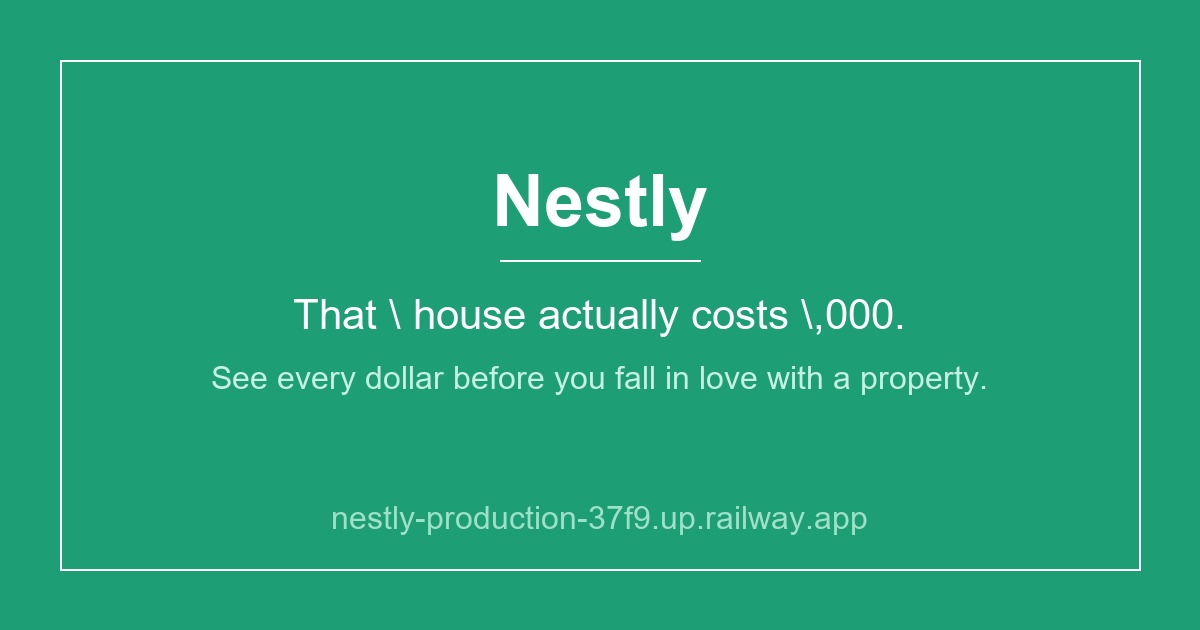
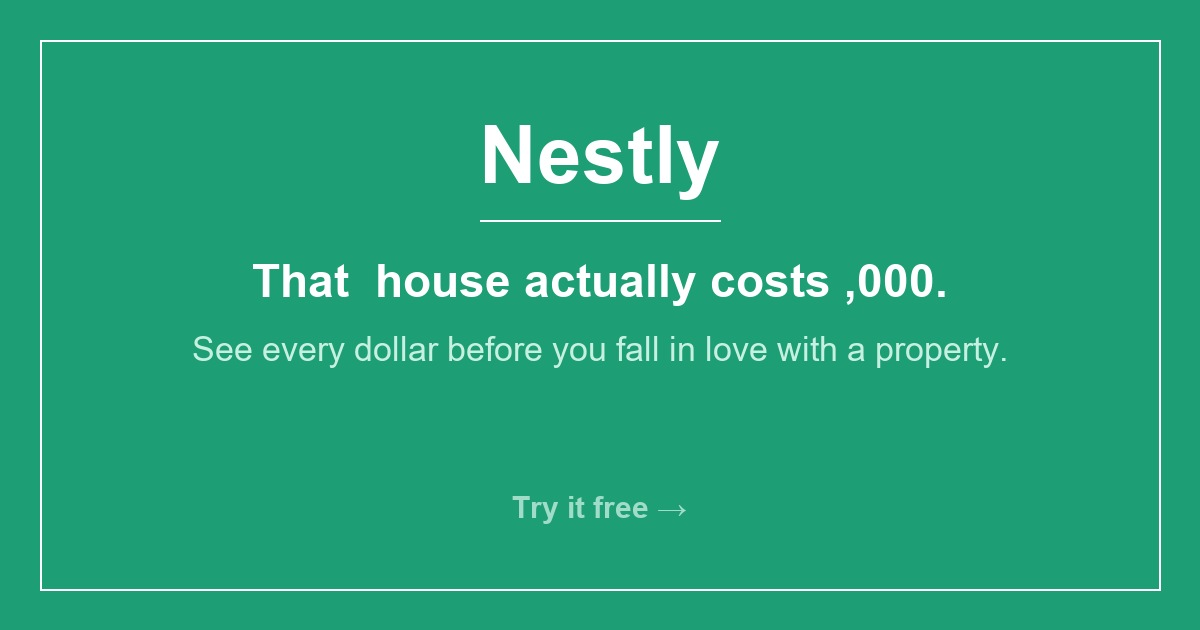
Fix og-image dollar signs and expand og:description
- Regenerate og-image.jpg: dollar signs now render correctly (was
  showing backslashes due to Python escape sequence bug)
- Add CTA 'Try it free' to og-image
- Expand og:description to include stamp duty, LMI, conveyancing
  and government grants copy for all 8 Australian states

Changed region(s): [[0.0308, 0.0603, 0.9867, 0.9651], [0.1542, 0.181, 0.8325, 0.6333], [0.2775, 0.7841, 0.74, 0.8444]]

diff --git a/index.html b/index.html
@@ -11,7 +11,7 @@
 
   <!-- Open Graph -->
   <meta property="og:title" content="Nestly — Know the True Cost Before You Fall in Love">
-  <meta property="og:description" content="That $650k house actually costs $712,000. See every dollar you will spend before you make an offer.">
+  <meta property="og:description" content="That $650k house actually costs $712,000. See stamp duty, LMI, conveyancing and every government grant you qualify for — free, for all 8 Australian states.">
   <meta property="og:url" content="https://nestly-production-37f9.up.railway.app">
   <meta property="og:type" content="website">
   <meta property="og:image" content="https://nestly-production-37f9.up.railway.app/assets/og-image.jpg">